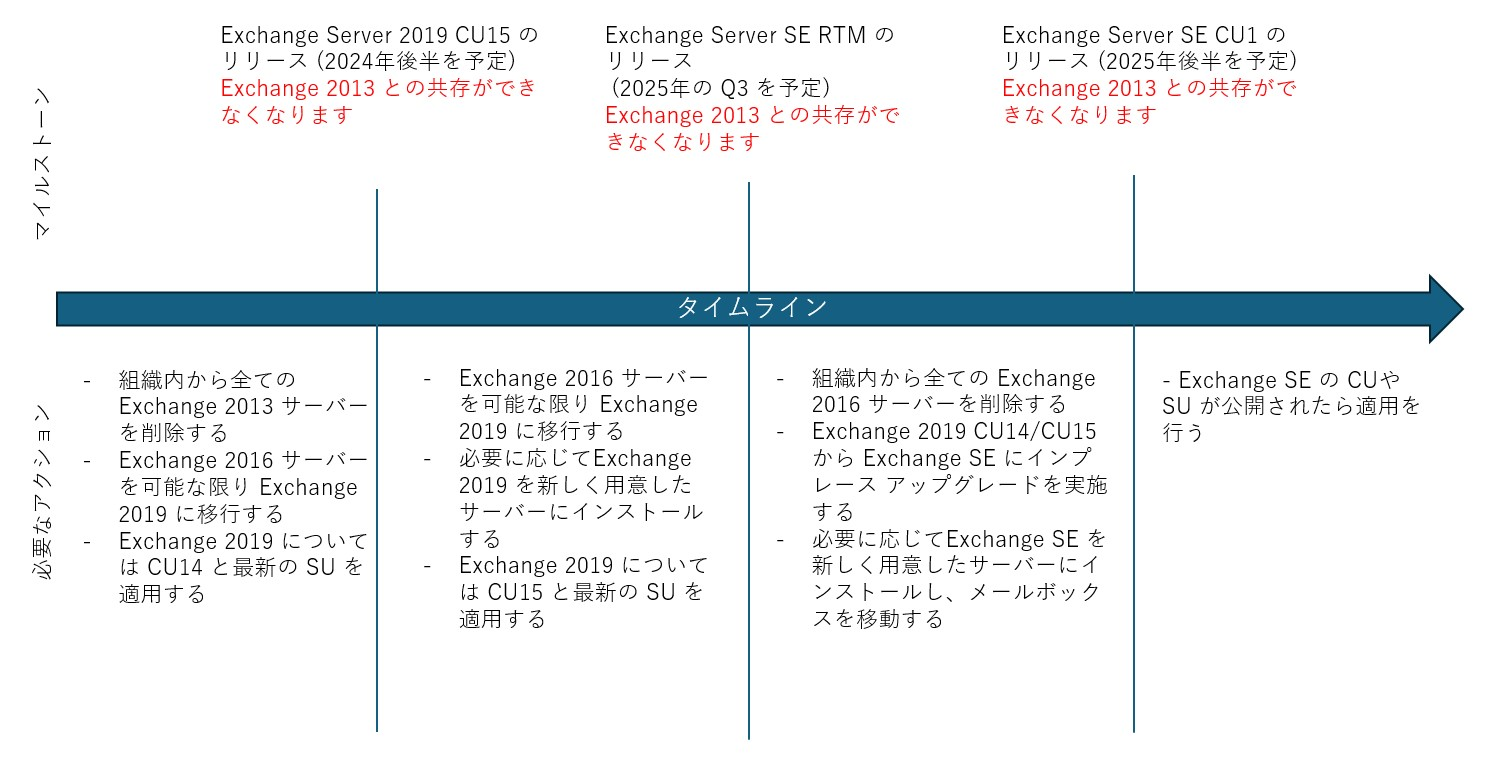
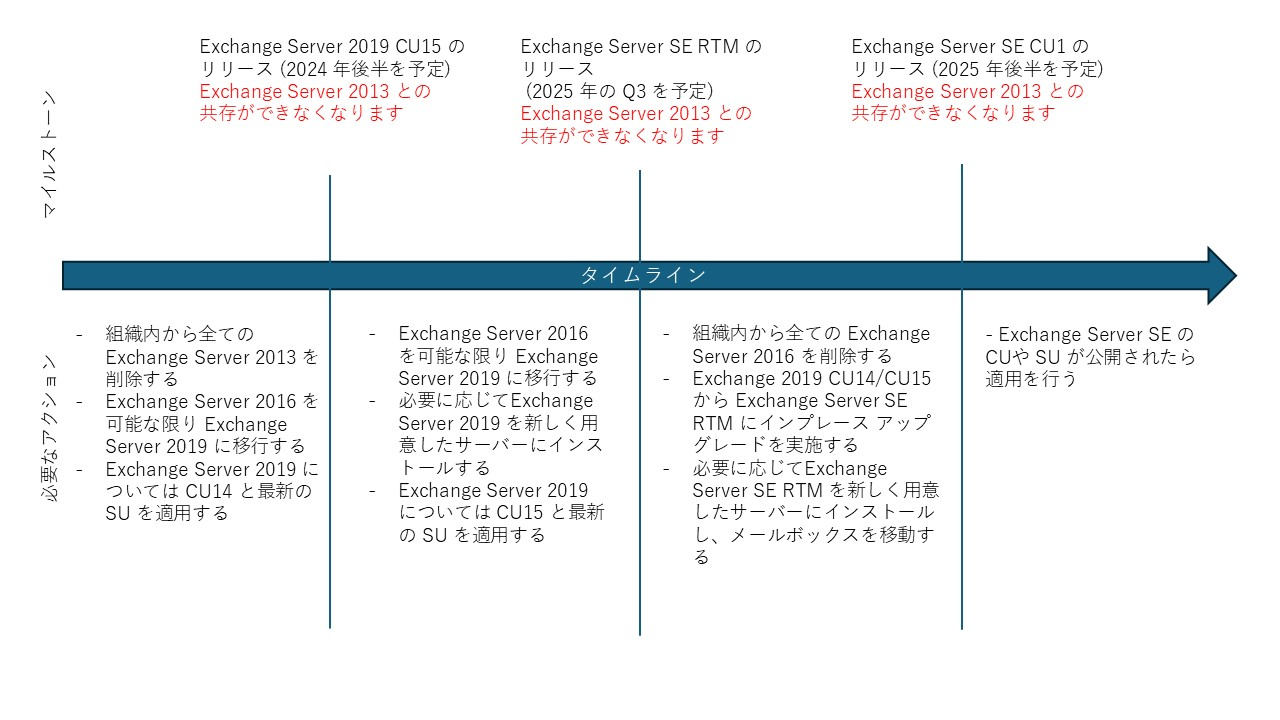
修正しました

diff --git a/source/_posts/Upgrading your organization from current versions to Exchange Server SE.md b/source/_posts/Upgrading your organization from current versions to Exchange Server SE.md
@@ -11,7 +11,7 @@ categories: Exchange
 
 こんにちは。日本マイクロソフト Exchange & Outlook サポート チームです。
 
-2024 年 5 月に、私たちは [Exchange Server Roadmap Update](https://techcommunity.microsoft.com/t5/exchange-team-blog/exchange-server-roadmap-update/ba-p/4132742) と今後の計画を共有しました。この重要な発表以来、いくつかの質問を受けましたので、その内容と回答を改めてご案内します。
+2024 年 5 月に、私たちは [Exchange Server Roadmap Update](https://techcommunity.microsoft.com/t5/exchange-team-blog/exchange-server-roadmap-update/ba-p/4132742) と今後の計画を共有しました。この重要な発表以来、お寄せ頂いた質問の中で今後の移行計画に役立ちそうな質問とその回答を本記事にまとめました。
 *抄訳版:「[Exchange Server のロードマップの更新](https://techcommunity.microsoft.com/t5/exchange-team-blog/exchange-server-roadmap-update/ba-p/4132742) 」
 
 この投稿で使用される用語をいくつか紹介します。
@@ -20,12 +20,12 @@ categories: Exchange
 - SU はセキュリティ更新 (Security Update) を意味します。
 - CY は暦年 (Calendar Year) を意味します。
 - H1 / H2 は暦年の上半期 / 下半期 (First half / Second half) を意味します。
-- RTM ソフトウェア製品の最初のリリース (Release to Manufacturing) を指します。
-- 共存 (Coexistence) は、同じExchange組織内で共存できるバージョンを指します。
+- RTM はソフトウェア製品の最初のリリース (Release to Manufacturing) を指します。
+- 共存 (Coexistence) は、同じ Exchange 組織内で共存できるバージョンを指します。
 
-Exchange Server 2016 および Exchange Server 2019 から Exchange Server Subscription Edition（SE）へのアップグレードパスは、いくつかの理由でこれまでとは異なります。本投稿ではさまざまなシナリオ、タイムライン、および取るべきアクションの詳細を最初に記載し、この投稿の最後に FAQ を用意して役立つ回答を提供します。
+Exchange Server 2016 および Exchange Server 2019 から Exchange Server Subscription Edition (SE) へのアップグレード パスは、いくつかの理由でこれまでとは異なります。本投稿ではさまざまなシナリオ、タイムライン、および取るべきアクションの詳細を最初に記載し、この投稿の最後に FAQ を用意して役立つ回答を提供します。
 
-これらの変更は、オンプレミス Exchange のみの状態、Exchange ハイブリッド展開の状態、または管理ツールのみの状態（受信者管理用）であるかどうかに関係なく、**すべての Exchange Server を利用している環境** が対象となります。
+これらの変更は、オンプレミス Exchange Server のみの状態、Exchange ハイブリッド展開の状態、または管理ツールのみの状態 (受信者管理用) であるかどうかに関係なく、**すべての Exchange Server を利用している環境** が対象となります。
 
 
 ## リリース内容と時期
@@ -40,56 +40,56 @@ Exchange Server 2016 および Exchange Server 2019 から Exchange Server Subsc
 
 | 名称                      | 提供日 | 詳細 | 共存 |
 | -------------------------- | ---- | ------ | ----- | 
-| Exchange Server 2019 CU15 | 2024 年下半期 | Exchange Server 2019 の 最終 CU：Exchange Server SE RTM と同等のコード（Exchange Server SE RTM 前にリリースされた SU を除く）です。| Exchange Server 2013 との共存はできません (CU15 のセットアップによってにブロックされます)。|
-| Exchange Server SE RTM | 2025 年下半期の前半 | Exchange 2019 CU14 または CU15 からのインプレースアップグレードを可能にします。 Exchange 2019 CU15 + CU15 以降にリリースされた SU と同等のコード（新機能やその他のコード変更はありません）です。| Exchange Server 2013 との共存はできません (RTM のセットアップによってブロックされます)。|
-| Exchange Server SE CU1 | 2025 年下半期の後半 | Exchange Server SE の最初の機能更新です。| Exchange Server 2013、Exchange Server 2016 | Exchange Server 2019 との共存はできません (CU1 のセットアップによってブロックされます)。|
+| Exchange Server 2019 CU15 | 2024 年下半期 | Exchange Server 2019 の 最終 CU：Exchange Server SE RTM と同等のコード (Exchange Server SE RTM 前にリリースされた SU を除く) です。| Exchange Server 2013 との共存はできません (CU15 のセットアップによってにブロックされます)。|
+| Exchange Server SE RTM | 2025 年下半期の前半 | Exchange Server 2019 CU14 または CU15 からのインプレースアップグレードを可能にします。 Exchange Server 2019 CU15 + CU15 以降にリリースされた SU と同等のコード (新機能やその他のコード変更はありません) です。| Exchange Server 2013 との共存はできません (RTM のセットアップによってブロックされます)。|
+| Exchange Server SE CU1 | 2025 年下半期の後半 | Exchange Server SE の最初の機能更新です。| Exchange Server 2013、Exchange Server 2016 または Exchange Server 2019 との共存はできません (CU1 のセットアップによってブロックされます)。|
 
 ## Exchange Server のバージョンごとのサポート状況
 
 Exchange Server の 最後の 3 つのバージョンとそのライフサイクル、および上記のリリースによる影響は、以下の表に詳述されています。
 
-| Exchange バージョン | サポート終了日 | Exchange 2019 CU15 リリース時点のサポート状況 | Exchange SE RTM リリース時点のサポート状況 | Exchange SE CU1 リリース時点のサポート状況 |
+| Exchange バージョン | サポート終了日 | Exchange 2019 CU15 リリース時点のサポート状況 | Exchange Server SE RTM リリース時点のサポート状況 | Exchange Server SE CU1 リリース時点のサポート状況 |
 | --- | --- | --- | --- | --- |
-| Exchange 2013 (すべての CU) | 2023 年 4 月 11 日 | サポートされません | サポートされません | サポートされません |
+| Exchange Server 2013 (すべての CU) | 2023 年 4 月 11 日 | サポートされません | サポートされません | サポートされません |
 | Exchange Server 2016 CU23 | 2025 年 10 月 14 日 | 延長サポート | 延長サポート | サポートされません |
 Exchange Server 2019 CU14/CU15 | 2025 年 10 月 14 日 | 延長サポート | 延長サポート | サポートされません |
 
-他のすべてのバージョンとビルドの Exchange Server はサポートされていません。ただし、Exchange 2019 CU13 は、Exchange 2019 CU15 がリリースされるとサポートが終了します
+他のすべてのバージョンとビルドの Exchange Server はサポートされていません。ただし、Exchange Server 2019 CU13 は、Exchange Server 2019 CU15 がリリースされるとサポートが終了します
 
 
 ## 同じ組織内での異なるバージョンの共存
 
-私たちは、同じ組織内での古いバージョンとの共存に影響を与える Exchange Server の変更を行っています。これまでは、新しいバージョンの Exchange Server がある組織内で、古い（サポートされていない）バージョンの Exchange Server を引き続き実行することが可能でした。これが 2 つの非常に重要な方法で変更されます。
+私たちは、同じ組織内での古いバージョンとの共存に影響を与える Exchange Server の変更を行っています。これまでは、新しいバージョンの Exchange Server がある組織内で、古い (サポートされていない) バージョンの Exchange Server を引き続き実行することが可能でした。これが 2 つの非常に重要な方法で変更されます。
 
 - Exchange Server 2019 CU15 および Exchange Server SE RTM のセットアップでは、Exchange Server 2013 との共存がブロックされます。
-- Exchange Server SE CU1 のセットアップでは、すべてのサポートされていないバージョン（例：Exchange Server 2013、Exchange Server 2016、Exchange Server 2019）との共存がブロックされ、Exchange Server SE とのみ共存が許可されます。
+- Exchange Server SE CU1 のセットアップでは、すべてのサポートされていないバージョン (例：Exchange Server 2013、Exchange Server 2016、Exchange Server 2019) との共存がブロックされ、Exchange Server SE とのみ共存が許可されます。
 
-Exchange Server SE CU1 がリリースされると、他のすべてのバージョンの Exchange Server はサポートされなくなります。以下の表に詳述されているように、CU1（またはそれ以降）をインストールするには、まず組織内のすべての古いバージョンの Exchange Server を廃止して削除する必要があります。
+Exchange Server SE CU1 がリリースされると、他のすべてのバージョンの Exchange Server はサポートされなくなります。以下の表に詳述されているように、CU1 (またはそれ以降) をインストールするには、まず組織内のすべての古いバージョンの Exchange Server を廃止して削除する必要があります。
 
-| Exchange バージョン | Exchange 2019 CU14 との共存 | Exchange 2019 CU15 共存 | Exchange SE RTM  との共存 | Exchange SE CU1 との共存 |
+| Exchange バージョン | Exchange Server 2019 CU14 との共存 | Exchange Server 2019 CU15 との共存 | Exchange Server SE RTM  との共存 | Exchange Server SE CU1 との共存 |
 | --- | --- | --- | --- | --- |
-| Exchange 2013 (すべての CU) | 可能です。ただしサポートされません。| 出来ません。ブロックされます。 | 出来ません。ブロックされます。 | 出来ません。ブロックされます。 |
-| Exchange 2016 CU23 | 可能です。| 可能です。 | 可能です。 | 出来ません。ブロックされます。 |
-| Exchange 2019 CU14/CU15  | 可能です。| 可能です。 | 可能です。 | 出来ません。ブロックされます。 |
+| Exchange Server 2013 (すべての CU) | 可能です。ただしサポートされません。| 出来ません。ブロックされます。 | 出来ません。ブロックされます。 | 出来ません。ブロックされます。 |
+| Exchange Server 2016 CU23 | 可能です。| 可能です。 | 可能です。 | 出来ません。ブロックされます。 |
+| Exchange Server 2019 CU14/CU15  | 可能です。| 可能です。 | 可能です。 | 出来ません。ブロックされます。 |
 
 
 ## 混在バージョン組織から Exchange Server SE 組織への移行
 
-現在の状態から Exchange Server SE のみに移行するには、いくつかのオプションがあります。現時点では、Exchange Server 2016 CU23 および/または Exchange Server 2019 CU13/CU14 を実行している必要があります。Exchange Server 2016 を CU23 より前のバージョンで実行している場合は、直ちに CU23 に更新する必要があります。Exchange 2019 の顧客には CU14 を実行することをお勧めしますが、CU13 もサポートしています。Exchange Serverの古いバージョン（例：Exchange Server 2013 以前）を実行している場合は、Exchange Online に移行するか、最新のCUを使用してExchange Server 2019 にアップグレードすることで、そのインフラストラクチャを廃止する必要があります。
+現在の状態から Exchange Server SE のみに移行するには、いくつかのオプションがあります。現時点では、Exchange Server 2016 CU23 および/または Exchange Server 2019 CU13/CU14 を実行している必要があります。Exchange Server 2016 を CU23 より前のバージョンで実行している場合は、直ちに CU23 に更新する必要があります。Exchange Server 2019 をご利用のお客様は CU14 を実行することをお勧めしますが、CU13 もサポートしています。Exchange Server の古いバージョン (例：Exchange Server 2013 以前) を実行している場合は、Exchange Online に移行するか、最新の CU を使用して Exchange Server 2019 にアップグレードすることで、そのインフラストラクチャを廃止する必要があります。
 
 Exchange Server 2016 および Exchange Server 2019から Exchange Server SE への移行には、2 つのアップグレード方法があります。
 
-- レガシー アップグレード：Exchange Server の新しいメジャーバージョンに移行する従来の方法です。これには、新しいサーバーを組織に導入し、古いサーバーから新しいサーバーにすべてのメールボックスとリソースを移動し、古いサーバーをアンインストールする必要があります。レガシーアップグレードは、Exchange Server 2016 から Exchange Server 2019 への移行、Exchange 2016 から Exchange Server SE への移行に必要です。また、新しいハードウェアや Windows Server の新しいバージョンに移行する際にも使用されます2。
-- インプレースアップグレード：Exchange Serverの新しいバージョンにアップグレードする新しい方法です。これはCUのインストールと同じであり、Exchange 2019 CU14/CU15からExchange SEへのアップグレードにのみ利用可能です
+- レガシー アップグレード：Exchange Server の新しいメジャーバージョンに移行する従来の方法です。これには、新しいサーバーを組織に導入し、古いサーバーから新しいサーバーにすべてのメールボックスとリソースを移動し、古いサーバーをアンインストールする必要があります。レガシー アップグレードは、Exchange Server 2016 から Exchange Server 2019 への移行、Exchange Server 2016 から Exchange Server SE への移行に必要です。また、新しいハードウェアや Windows Server の新しいバージョンに移行する際にも使用されます。
+- インプレースアップグレード：Exchange Serverの新しいバージョンにアップグレードする新しい方法です。これはCUのインストールと同じであり、Exchange 2019 CU14/CU15 から Exchange Server SE へのアップグレードにのみ利用可能です
 
 [Exchange Server Roadmap Update](https://techcommunity.microsoft.com/t5/exchange-team-blog/exchange-server-roadmap-update/ba-p/4132742) では、現在使用しているバージョンから Exchange Server SE に移行するために必要な手順を示した表を公開しました。以下はその表の若干更新されたバージョンです。
 
 
 
 
-| 既存の Exchange Server | Exchange Server 2019 CU15 | Exchange Server SE |
+| 既存の Exchange Server | Exchange Server 2019 CU15 | Exchange Server SE RTM |
 | --- | --- | --- |
-| Exchange Server 2013 (すべての CU) | 組織内に共存することはサポートされません。今すぐ Exchange Server 2019 CU14 へ従来のアップグレードを行ったうえで Exchange Server 2013 を撤去します。また、Exchange Server 2019 CU15 が公開されたら適用します。 | 組織内に共存することはサポートされません。今すぐ Exchange Server 2019 CU14 へ従来のアップグレードを行ったうえで Exchange Server 2013 を撤去します。また、Exchange Server 2019 CU15 が公開されたら適用します。その後 Exchange Server SE がリリースされたら、Exchange Server SE にインプレース アップグレードを行います。 |
+| Exchange Server 2013 (すべての CU) | 組織内に共存することはサポートされず、セットアップ実行時にブロックされます。今すぐ Exchange Server 2019 CU14 へ従来のアップグレードを行ったうえで Exchange Server 2013 を撤去します。また、Exchange Server 2019 CU15 が公開されたら適用します。 | 組織内に共存することはサポートされず、セットアップ実行時にブロックされます。今すぐ Exchange Server 2019 CU14 へ従来のアップグレードを行ったうえで Exchange Server 2013 を撤去します。また、Exchange Server 2019 CU15 が公開されたら適用します。その後 Exchange Server SE がリリースされたら、Exchange Server SE にインプレース アップグレードを行います。 |
 | Exchange Server 2016 CU23 | Exchange Server 2019 CU14 へ従来のアップグレードを行ったうえで、Exchange Server 2019 CU15 が公開されたら適用します。 | Exchange Server 2019 CU14 へ従来のアップグレードを行ったうえで、Exchange Server 2019 CU15 が公開されたら適用します。その後 Exchange Server SE がリリースされたら、インプレース アップグレードを行います。 |
 | Exchange Server 2016 CU22 以前 | 組織内に共存することはサポートされません。今すぐ Exchange Server 2019 CU14 へ従来のアップグレードを行ったうえで Exchange Server 2016 を撤去し、Exchange Server 2019 CU15 が公開されたら適用します。または、今すぐ Exchange Server 2016 CU23 を適用し、Exchange Server 2019 CU14 または Exchange Server 2019 CU15 へ従来のアップグレードを行います。| 組織内に共存することはサポートされません。今すぐ Exchange Server 2016 CU23 を適用し、Exchange Server 2019 CU14 または Exchange Server 2019 CU15 へ従来のアップグレードを行います。その後 Exchange Server SE がリリースされたら、インプレース アップグレードを行います。 |
 | Exchange Server 2019 CU14/CU15 | Exchange Server 2019 の CU15 が公開されたら適用します。 | Exchange Server SE にインプレース アップグレードします。 |
@@ -104,73 +104,73 @@ Exchange Server 2016 および Exchange Server 2019から Exchange Server SE へ
 
 2024 年 5 月にロードマップを発表して以来、お寄せいただいた質問の一部を以下に紹介します。
 
-**Exchange Server SE RTM ではサーバーロールやエディション、前提条件に変更は発生しますか?**
+**Exchange Server SE RTM ではサーバーロールやエディション、前提条件に変更は発生しますか。**
 
 いいえ。Exchange Server SE RTM では、Exchange Server 2019 と同じサーバーロール、エディション、前提条件となります。
 
-**Exchange Server SE に関して、パフォーマンスやサイジングといったアーキテクチャに関するガイダンスに変更はありますか?**
+**Exchange Server SE に関して、パフォーマンスやサイジングといったアーキテクチャに関するガイダンスに変更はありますか。**
 
 いいえ。Exchange Server SE のサイジングやスケーリングおよび展開に関するガイダンスに関しては、Exchange Server 2019 と同じです。
 
-**Exchange Server SE から廃止されたり削除される機能はありますか?**
+**Exchange Server SE から廃止されたり削除される機能はありますか。**
 
-はい。Exchange SE CU1 では、以下の機能を削除することを発表しています。
+はい。Exchange Server SE CU1 では、以下の機能を削除することを発表しています。
 
 - UCMA 4.0 および Web 版 Outlook のインスタント メッセージング機能のサポート
-- Outlook Anywhere(RPC/HTTP) プロトコルのサポート
+- Outlook Anywhere (RPC/HTTP) プロトコルのサポート
 
-**新機能がないのに、なぜ以前のバージョンから Exchange Server SE RTM にアップグレードする必要があるのでしょうか?**
+**新機能がないのに、なぜ以前のバージョンから Exchange Server SE RTM にアップグレードする必要があるのでしょうか。**
 
-Exchange Server 2016 および Exchange Server 2019 は、2025 年 10 月 14 日 にサポートが終了します。 Exchange Server 2019 からの迅速かつ容易なインプレース アップグレードを可能にするため、新しい機能の追加を Exchange Server 2019 CU15 に前倒ししたり、Exchange Server SE CU1 以降に追加するようにしました。これにより、Exchange SE RTM は、新しいライフサイクルとサポートポリシーを導入するブランディングアップデートという位置付けになりました。サポートされた方法で Exchange SE CU1 にアップグレードするためのパスとしてお客様のサーバーを Exchange Server SE RTM に移行することが必要となります。Exchange SE CU1 がリリースされると、それ以前のバージョンはすべてサポート対象外となります。Exchange SE CU1以降にもさらに多くの機能が予定されており、Exchange Server の開発は継続して行われます。
+Exchange Server 2016 および Exchange Server 2019 は、2025 年 10 月 14 日 にサポートが終了します。 Exchange Server 2019 からの迅速かつ容易なインプレース アップグレードを可能にするため、新しい機能の追加を Exchange Server 2019 CU15 に前倒ししたり、Exchange Server SE CU1 以降に追加するようにしました。これにより、Exchange Server SE RTM は、新しいライフサイクルとサポート ポリシーを導入するブランディング アップデートという位置付けになりました。サポートされた方法で Exchange Server SE CU1 にアップグレードするためのパスとしてお客様のサーバーを Exchange Server SE RTM に移行することが必要となります。Exchange SE CU1 がリリースされると、それ以前のバージョンはすべてサポート対象外となります。Exchange Server SE CU1 以降にもさらに多くの機能が予定されており、Exchange Server の開発は継続して行われます。
 
-**Exchange Server SE のライセンス要件についてもっと明確にしていただけますか?**
+**Exchange Server SE のライセンス要件についてもっと明確にしていただけますか。**
 
-Exchange Server SE のライセンスは、1つの例外を除いて Exchange Server 2019 と同じです。Microsoft は、ライセンスのみの購入は提供しなくなりました (Exchange Server 2019 で使用されるライセンスモデルの詳細については、[Microsoft Exchange Server licensing and FAQ](https://www.microsoft.com/microsoft-365/exchange/microsoft-exchange-server-licensing-licensing-overview) を参照してください)。
+Exchange Server SE のライセンスは、1 つの例外を除いて Exchange Server 2019 と同じです。Microsoft は、ライセンスのみの購入は提供しなくなりました (Exchange Server 2019 で使用されるライセンスモデルの詳細については、[Microsoft Exchange Server licensing and FAQ](https://www.microsoft.com/microsoft-365/exchange/microsoft-exchange-server-licensing-licensing-overview) を参照してください)。
 
-Exchange Server SE の場合、必要なサーバーライセンスと CAL を購入するだけでなく、お客様はアクティブなサブスクリプションも維持する必要があります。つまり、以下のいずれかを購入する必要があります。
+Exchange Server SE の場合、必要なサーバー ライセンスと CAL を購入するだけでなく、お客様はアクティブなサブスクリプションも維持する必要があります。つまり、以下のいずれかを購入する必要があります。
 
-- Exchange Server SE にアクセスするすべてのユーザーとデバイスを対象としたクラウドサブスクリプションライセンス(例えば、Microsoft 365 E3 または E5 ライセンスが該当します)
-- Exchange Server SEサーバーライセンスと CAL に [Software Assurance](https://www.microsoft.com/licensing/licensing-programs/software-assurance-default) (SA)を追加したもの
+- Exchange Server SE にアクセスするすべてのユーザーとデバイスを対象としたクラウド サブスクリプション ライセンス (例えば、Microsoft 365 E3 または E5 ライセンスが該当します)
+- Exchange Server SE サーバー ライセンスと CAL に [Software Assurance](https://www.microsoft.com/licensing/licensing-programs/software-assurance-default) (SA) を追加したもの
 
-Microsoft 365 E3/E5 以外のクラウドサブスクリプションライセンスでも要件を満たしますが、E3/E5 を挙げたのは、追加料金なしで無制限の Office Server ライセンスを提供する拡張使用権が含まれているためです (詳細は [Microsoft Product Terms](https://www.microsoft.com/licensing/terms/productoffering/Microsoft365/EAEAS) を参照してください)。
+Microsoft 365 E3/E5 以外のクラウド サブスクリプション ライセンスでも要件を満たしますが、E3/E5 を挙げたのは、追加料金なしで無制限の Office Server ライセンスを提供する拡張使用権が含まれているためです (詳細は [Microsoft Product Terms](https://www.microsoft.com/licensing/terms/productoffering/Microsoft365/EAEAS) を参照してください)。
 
 クラウド サブスクリプション ライセンスを購入しない場合は、購入するサーバー ライセンスおよび CAL にはソフトウェア アシュアランスが必要です。
 
-ライセンス オプションをまとめると以下のようになります(いずれかを満たす必要があります):
+ライセンス オプションをまとめると以下のようになります (いずれかを満たす必要があります):
 
 - **ユーザー向けの対象クラウド サブスクリプション ライセンス (例:Microsoft 365 E3/E5)** この方法を選択する場合は、Exchange Server SE にアクセスするすべてのユーザーが E3 または E5 ライセンスを保有している必要があります。
 - **ライセンス (サーバーおよび CAL) + Exchange Server 2016/2019 の SA** 使用権を維持し、Exchange Server SE および更新プログラムにアクセスします。
-- **ライセンス (サーバーおよびCAL) + Exchange Server SE用のSA(リリース後)** Exchange Server SE の使用権とアップデートへのアクセスを維持するための SA。
+- **ライセンス (サーバーおよび CAL) + Exchange Server SE 用の SA (リリース後)** Exchange Server SE の使用権とアップデートへのアクセスを維持するための SA。
 
-**Exchange Server SE をダウンロードし、プロダクトキー（入手可能な場合）を入手するにはどうすればよいですか**
+**Exchange Server SE をダウンロードし、プロダクト キー (入手可能な場合) を入手するにはどうすればよいですか。**
 
-ボリュームライセンス（VL）契約でライセンスされたソフトウェア製品（Exchange Server 2019 など）は、以前はボリュームライセンスサービスセンター（VLSC）からダウンロードすることができました。しかし、レガシーの VLSC は終了しており、これらの配布は Microsoft 365 管理センターに移りました。Exchange Server SE (およびその他の VL ソフトウェア) を購入するお客様は、Microsoft 365 管理センターから製品をダウンロードし、プロダクト キーを取得します。詳細については、[Administering Volume Licensing Frequently Asked Questions](https://learn.microsoft.com/licensing/vlsc-faqs-home-page) を参照してください。
+ボリューム ライセンス (VL) 契約でライセンスされたソフトウェア製品 (Exchange Server 2019 など) は、以前はボリューム ライセンス サービス センター (VLSC) からダウンロードすることができました。しかし、レガシーの VLSC は終了しており、これらの配布は Microsoft 365 管理センターに移りました。Exchange Server SE (およびその他の VL ソフトウェア) を購入するお客様は、Microsoft 365 管理センターから製品をダウンロードし、プロダクト キーを取得します。詳細については、[Administering Volume Licensing Frequently Asked Questions](https://learn.microsoft.com/licensing/vlsc-faqs-home-page) を参照してください。
 
-**Exchange Server Subscription Edition という名称をふまえると、定期的なオンラインライセンス確認が必要となりますか?**
+**Exchange Server Subscription Edition という名称をふまえると、定期的なオンラインライセンス確認が必要となりますか。**
 
 いいえ、有効な Exchange Server SE プロダクトキーが入力されると、追加のライセンス チェックは行われません。上記で案内した通りサブスクリプションを継続してご契約いただければ、ライセンス コンプライアンスが維持され、Microsoft 365 管理センターのボリューム ライセンス ページから将来の Exchange Server SE アップデートを入手することが可能です。
 
-**弊社では、ソフトウェア保証 (SA) なしの Exchange Server 2016 のサーバーライセンスと CAL を保有しています。Exchange Server 2019 のサポートが 2025 年に終了する予定であるにもかかわらず、なぜ Exchange Server 2019 の SA を購入して今すぐアップグレードする必要があるのでしょうか?**
+**弊社では、ソフトウェア保証 (SA) なしの Exchange Server 2016 のサーバーライセンスと CAL を保有しています。Exchange Server 2019 のサポートが 2025 年に終了する予定であるにもかかわらず、なぜ Exchange Server 2019 の SA を購入して今すぐアップグレードする必要があるのでしょうか。**
 
-Exchange 2016 から Exchange 2019 への移行は、新しいサーバーの導入とメールボックスの新しいバージョンへの移行を必要とするレガシーアップグレードと呼ばれるプロセスが必要なります。現在 Exchange 2016 を利用しているお客様にとって、Exchange 2019 へのアップグレードは、Exchange Server SE が利用可能になる前の最後のレガシーアップグレードを開始 (および完了) できることを意味します。そして Exchange Server 2016 から Exchange Server SE へのレガシー アップグレードを用いた直接の移行を待たずに、今すぐそのアップグレードを開始することができる方法となります (くわえて、Exchange Server 2019 へのアップグレード進めることを強く推奨します)。Exchange Server 2019 にアップグレードすれば、Exchange Server SE がリリースされたらすぐに Exchange Server SE へのアップグレードを行うことができます。Exchange Server 2019 に今すぐ移行すれば、Exchange Server SE へのアップグレードの準備に多くの時間を確保することができます。
+Exchange Server 2016 から Exchange Server 2019 への移行は、新しいサーバーの導入とメールボックスの新しいバージョンへの移行を必要とするレガシー アップグレードと呼ばれるプロセスが必要なります。現在 Exchange Server 2016 を利用しているお客様にとって、Exchange Server 2019 へのアップグレードは、Exchange Server SE が利用可能になる前の最後のレガシー アップグレードを開始 (および完了) できることを意味します。そして Exchange Server 2016 から Exchange Server SE へのレガシー アップグレードを用いた直接の移行を待たずに、今すぐそのアップグレードを開始することができる方法となります (くわえて、Exchange Server 2019 へのアップグレード進めることを強く推奨します)。Exchange Server 2019 にアップグレードすれば、Exchange Server SE がリリースされたらすぐに Exchange Server SE へのインプレース アップグレードを行うことができます。Exchange Server 2019 に今すぐ移行すれば、Exchange Server SE へのアップグレードの準備に多くの時間を確保することができます。
 
-**Exchange Server SE にはハイブリッド構成をとるための無料ライセンスが含まれるのでしょうか?**
+**Exchange Server SE にはハイブリッド構成をとるための無料ライセンスが含まれるのでしょうか。**
 
-はい。以前のバージョンと同様に、Exchange Server SE では、ハイブリッド構成ウィザード (HCW) を介して、ハイブリッド用途向けの無料ライセンスが引き続き提供されます。ただし、以前のバージョンとは異なり、Exchange Server のアップデートを取得するには、このライセンスに対して SA を購入するか、要件を満たすクラウド サブスクリプション ライセンスを取得する必要があります。ハイブリッド ライセンスは受信者管理のみを目的としたものであることにご注意ください。メールボックスをホストする場合やオンプレミスでエッジ トランスポート サーバーを利用される場合は、Exchange Server ライセンスが必要です。[この FAQ](https://www.microsoft.com/en-us/microsoft-365/exchange/microsoft-exchange-licensing-faq-email-for-business)  をご覧ください。また、Exchange 2019と同様に、PowerShell と Exchange 管理ツールを使用することで、Exchange Server を実行する必要なく受信者を管理できるため、ハイブリッドライセンスは不要になります。
+はい。以前のバージョンと同様に、Exchange Server SE では、ハイブリッド構成ウィザード (HCW) を介して、ハイブリッド用途向けの無料ライセンスが引き続き提供されます。ただし、以前のバージョンとは異なり、Exchange Server のアップデートを取得するには、このライセンスに対して SA を購入するか、要件を満たすクラウド サブスクリプション ライセンスを取得する必要があります。ハイブリッド ライセンスは受信者管理のみを目的としたものであることにご注意ください。メールボックスをホストする場合やオンプレミスでエッジ トランスポート サーバーを利用される場合は、Exchange Server ライセンスが必要です。[この FAQ](https://www.microsoft.com/en-us/microsoft-365/exchange/microsoft-exchange-licensing-faq-email-for-business)  をご覧ください。また、Exchange Server 2019 と同様に、PowerShell と Exchange 管理ツールを使用することで、Exchange Server を実行する必要なく受信者を管理できるため、ハイブリッド ライセンスは不要になります。
 
-**Exchange 2016 および Exchange 2019 のサポート期限の延長や延長サポートの提供、拡張セキュリティ更新プログラム（ESU）の提供は予定されていますか**
+**Exchange Server 2016 および Exchange Server 2019 のサポート期限の延長や延長サポートの提供、拡張セキュリティ更新プログラム (ESU) の提供は予定されていますか。**
 
-Exchange 2016 または Exchange 2019 のサポート終了日を延長することはありません。また、どちらのバージョンに対しても現在予定されている以上の延長サポートや ESU を提供することはありません。私たちは、既存の Exchange 2019 を利用されているお客様がシームレスにアップグレードできるよう、Exchange Server SE のリリースを準備することに集中しています。引き続きオンプレミスの Exchange Server をご利用されるお客様においては、できるだけ早く Exchange 2019 にアップグレードされることを強くお勧めします。
+Exchange Server 2016 または Exchange Server 2019 のサポート終了日を延長することはありません。また、どちらのバージョンに対しても現在予定されている以上の延長サポートや ESU を提供することはありません。私たちは、既存の Exchange 2019 を利用されているお客様がシームレスにアップグレードできるよう、Exchange Server SE のリリースを準備することに集中しています。引き続きオンプレミスの Exchange Server をご利用されるお客様においては、できるだけ早く Exchange 2019 にアップグレードされることを強くお勧めします。
 
-**Exchange Server SE のパブリックベータ版は提供されますか?**
+**Exchange Server SE のパブリックベータ版は提供されますか。**
 
-いいえ。Exchange Server SE のパブリックベータ版は提供されません。[TAP プログラム](https://techcommunity.microsoft.com/t5/exchange-team-blog/open-enrollment-for-exchange-server-2019-tap/ba-p/3421627)のメンバーのお客様は、Exchange Server SE のリリースに早期アクセスできます。ただし、[以前にお知らせ](https://techcommunity.microsoft.com/t5/exchange-team-blog/exchange-server-roadmap-update/ba-p/4132742)したとおり、Exchange Server SE RTM は Exchange 2019 CU15 (およびその間にリリースされたすべての SU)と同等のコードが使われています。言い換えますと、TAP プログラムに参加していないお客様においても、組織内で Exchange 2019 CU15 を展開することで Exchange Server SE RTM の動作を早期に確認することができます。
+いいえ。Exchange Server SE のパブリックベータ版は提供されません。[TAP プログラム](https://techcommunity.microsoft.com/t5/exchange-team-blog/open-enrollment-for-exchange-server-2019-tap/ba-p/3421627)のメンバーのお客様は、Exchange Server SE のリリースに早期アクセスできます。ただし、[以前にお知らせ](https://techcommunity.microsoft.com/t5/exchange-team-blog/exchange-server-roadmap-update/ba-p/4132742)したとおり、Exchange Server SE RTM は Exchange 2019 CU15 (およびその間にリリースされたすべての SU) と同等のコードが使われています。言い換えますと、TAP プログラムに参加していないお客様においても、組織内で Exchange 2019 CU15 を展開することで Exchange Server SE RTM の動作を早期に確認することができます。
 
-**Exchange Server SEでは、Exchangeがすでにインストールされている場合でも Windows Server OSのインプレースアップグレードが可能となりますでしょうか?**
+**Exchange Server SE では、Exchange がすでにインストールされている場合でも Windows Server OS のインプレース アップグレードが可能となりますでしょうか。**
 
-いいえ。Exchange Server 上の Windows OS のアップグレードはサポートされておらず、今後もサポートされる予定はありません。このようなご要望あることは承知しており、現在も評価を行っている際中です (現時点では発表できるものはありません)。新しいサーバーを構築されるお客様には、Exchange Server をインストールする前に、最新の Windows OS をインストールすることをお勧めします (Exchange 2019 CU15がリリースされた後は、Windows Server 2025 もサポートされる OS になります)。
+いいえ。Exchange Server 上の Windows OS のアップグレードはサポートされておらず、今後もサポートされる予定はありません。このようなご要望あることは承知しており、現在も評価を行っている際中です (現時点では発表できるものはありません)。新しいサーバーを構築されるお客様には、Exchange Server をインストールする前に、最新の Windows OS をインストールすることをお勧めします (Exchange 2019 CU15 がリリースされた後は、Windows Server 2025 もサポートされる OS になります)。
 
 
-**バージョンの共存に関して、今までは同一組織内での N-2 (現在および過去2つのバージョン )の Exchange Server の共存がサポートされていました。なぜ Exchange Server SE でこれが変更されるのでしょうか?**
+**バージョンの共存に関して、今までは同一組織内での N-2 (現在および過去2つのバージョン) の Exchange Server の共存がサポートされていました。なぜ Exchange Server SE でこれが変更されるのでしょうか。**
 
 Exchange Server SE の RTM リリース後、間もなく Exchange Server 2016 と Exchange Server 2019 がサポート終了を迎えるためです。Exchange Server SE CU1 のリリースにより、Exchange Server SE が唯一のサポート対象バージョンとなることにくわえて他のすべてのバージョンがサポート対象外となるため、N-2 が適用されなくなります。
